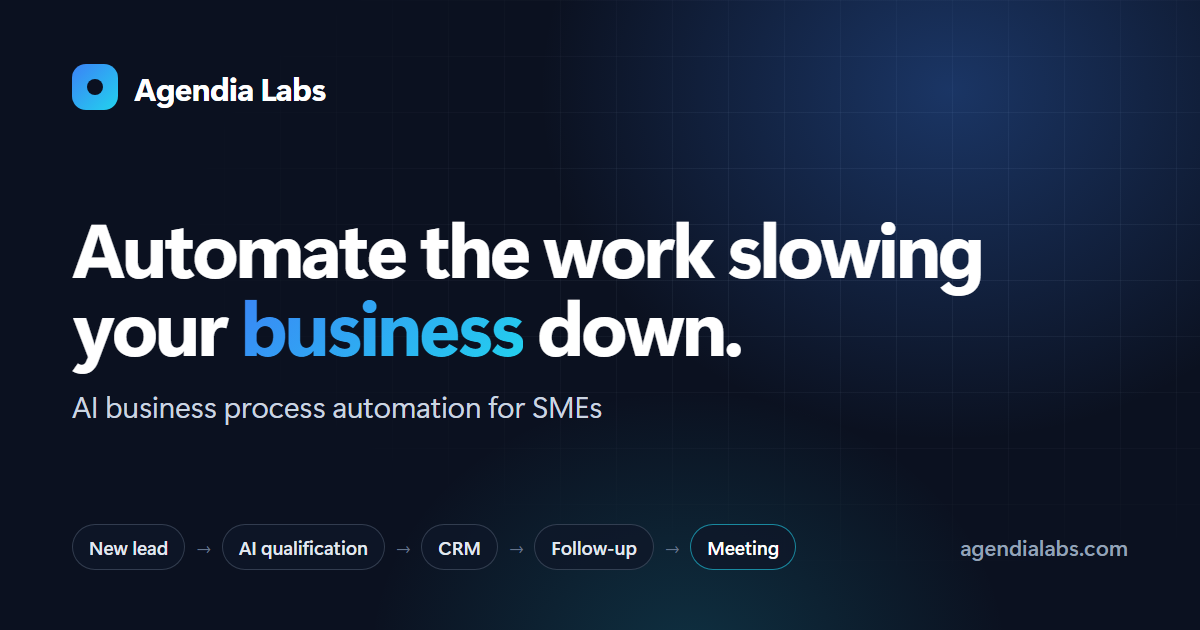
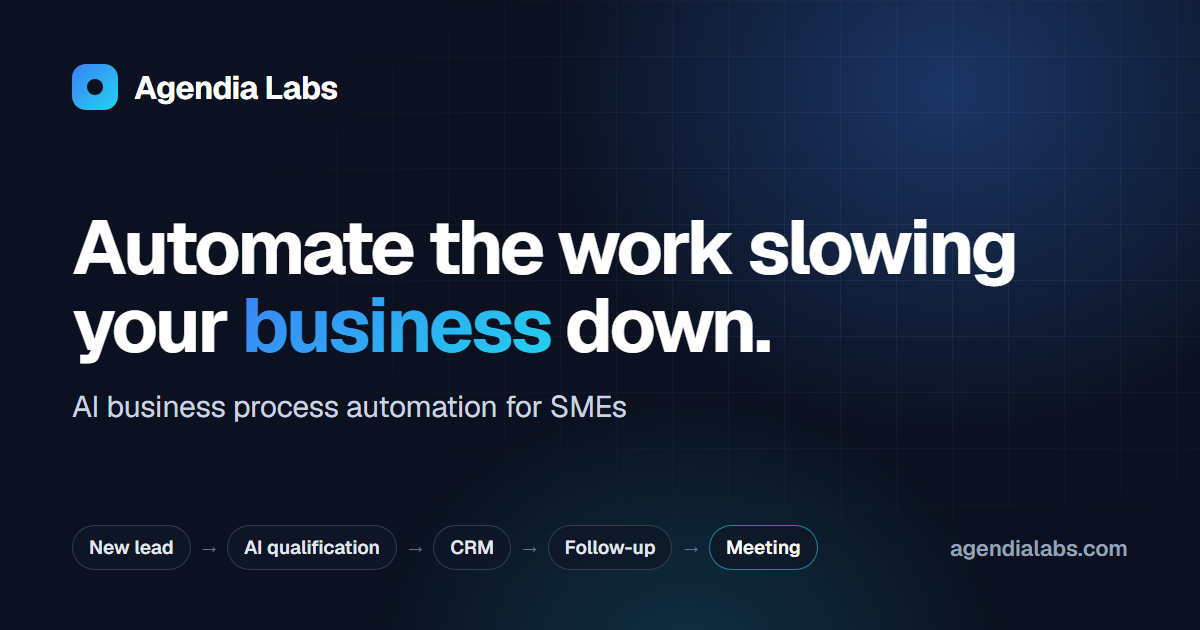
Drop n8n from SEO copy and render OG images in Geist
- Rewrite the meta descriptions around "process automation with AI for
  SMEs" and remove n8n from the descriptions, schema description and
  knowsAbout in both locales
- Regenerate the Open Graph images with the site's Geist font

diff --git a/src/i18n/en.ts b/src/i18n/en.ts
@@ -4,17 +4,17 @@ export const en: Messages = {
   meta: {
     title: 'AI Business Process Automation for SMEs | Agendia Labs',
     description:
-      'Agendia Labs helps businesses automate repetitive work, lead follow-ups and internal workflows using AI, n8n and custom backend integrations.',
+      'AI business process automation for SMEs: Agendia Labs automates lead follow-ups, CRM updates, WhatsApp and repetitive work with custom integrations.',
     ogTitle: 'AI Business Process Automation for SMEs | Agendia Labs',
     ogDescription:
-      'Automate lead follow-ups, CRM updates and repetitive work with AI, n8n and custom backend integrations. Book a free 20-minute automation call.',
+      'Automate lead follow-ups, CRM updates and repetitive work with AI and custom backend integrations. Book a free 20-minute automation call.',
     ogImageAlt: 'Agendia Labs: automate the work slowing your business down',
     ogLocale: 'en_GB',
   },
   schema: {
     description:
-      'AI automation services, business process automation, n8n workflow automation, CRM automation and API integration services for small and medium businesses.',
-    knowsAbout: ['AI automation', 'Workflow automation', 'n8n', 'CRM automation', 'WhatsApp automation', 'API integrations', 'AI agents'],
+      'AI automation services, business process automation, CRM and WhatsApp automation, and API integration services for small and medium businesses.',
+    knowsAbout: ['AI automation', 'Workflow automation', 'CRM automation', 'WhatsApp automation', 'API integrations', 'AI agents'],
   },
   common: {
     bookCall: 'Book a Free Automation Call',

diff --git a/src/i18n/es.ts b/src/i18n/es.ts
@@ -4,20 +4,19 @@ export const es: Messages = {
   meta: {
     title: 'Automatización de procesos con IA para pymes | Agendia Labs',
     description:
-      'Agendia Labs ayuda a las empresas a automatizar el trabajo repetitivo, el seguimiento de leads y los procesos internos con IA, n8n e integraciones backend a medida.',
+      'Automatización de procesos con IA para pymes: automatizamos el seguimiento de leads, el CRM, WhatsApp y el trabajo repetitivo con integraciones a medida.',
     ogTitle: 'Automatización de procesos con IA para pymes | Agendia Labs',
     ogDescription:
-      'Automatiza el seguimiento de leads, el CRM y el trabajo repetitivo con IA, n8n e integraciones backend a medida. Reserva una llamada gratuita de 20 minutos.',
+      'Automatiza el seguimiento de leads, el CRM y el trabajo repetitivo con IA e integraciones backend a medida. Reserva una llamada gratuita de 20 minutos.',
     ogImageAlt: 'Agendia Labs: automatiza el trabajo que frena tu negocio',
     ogLocale: 'es_ES',
   },
   schema: {
     description:
-      'Servicios de automatización con IA, automatización de procesos de negocio, automatización con n8n, automatización de CRM e integraciones API para pymes.',
+      'Servicios de automatización con IA, automatización de procesos de negocio, automatización de CRM y WhatsApp, e integraciones API para pymes.',
     knowsAbout: [
       'Automatización con IA',
       'Automatización de procesos',
-      'n8n',
       'Automatización de CRM',
       'Automatización de WhatsApp',
       'Integraciones API',
